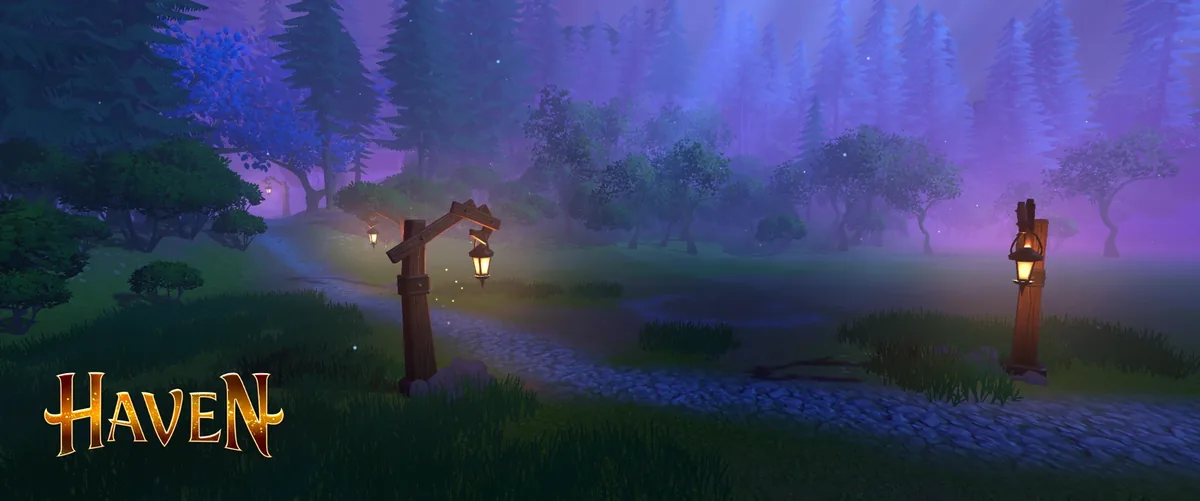
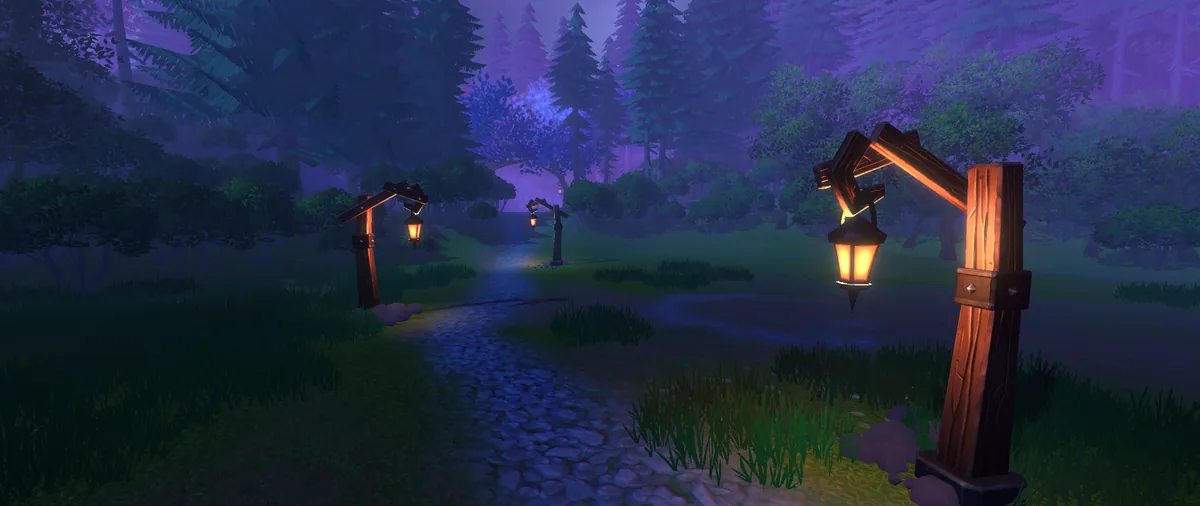
Swap branded lantern for clean version; add planter, sunrise, classes shots

diff --git a/index.html b/index.html
@@ -1473,11 +1473,14 @@
     <div class="carousel-viewport">
       <div class="carousel-track">
         <img src="assets/screens/screen-cottage.webp" alt="A lantern-lit cottage at dusk in Haven" loading="lazy">
+        <img src="assets/screens/screen-sunrise.webp" alt="A hero walking toward sunrise through standing stones" loading="lazy">
+        <img src="assets/screens/screen-lanterns.webp" alt="A misty forest path lit by lanterns" loading="lazy">
         <img src="assets/screens/screen-coop.webp" alt="A co-op party gathered by a crystal in Haven" loading="lazy">
         <img src="assets/screens/screen-ability.webp" alt="A mage casting an ability in the desert" loading="lazy">
-        <img src="assets/screens/screen-lanterns.webp" alt="A misty forest path lit by lanterns" loading="lazy">
-        <img src="assets/screens/screen-character-create.webp" alt="The Haven character creation screen" loading="lazy">
+        <img src="assets/screens/screen-planter.webp" alt="Tending a glowing planter in a Haven village" loading="lazy">
         <img src="assets/screens/screen-winter.webp" alt="A seasonal winter event in Haven" loading="lazy">
+        <img src="assets/screens/screen-classes.webp" alt="Choosing a character class in Haven" loading="lazy">
+        <img src="assets/screens/screen-character-create.webp" alt="The Haven character creation screen" loading="lazy">
       </div>
     </div>
     <button class="carousel-btn prev" type="button" aria-label="Previous screenshot">&lsaquo;</button>
